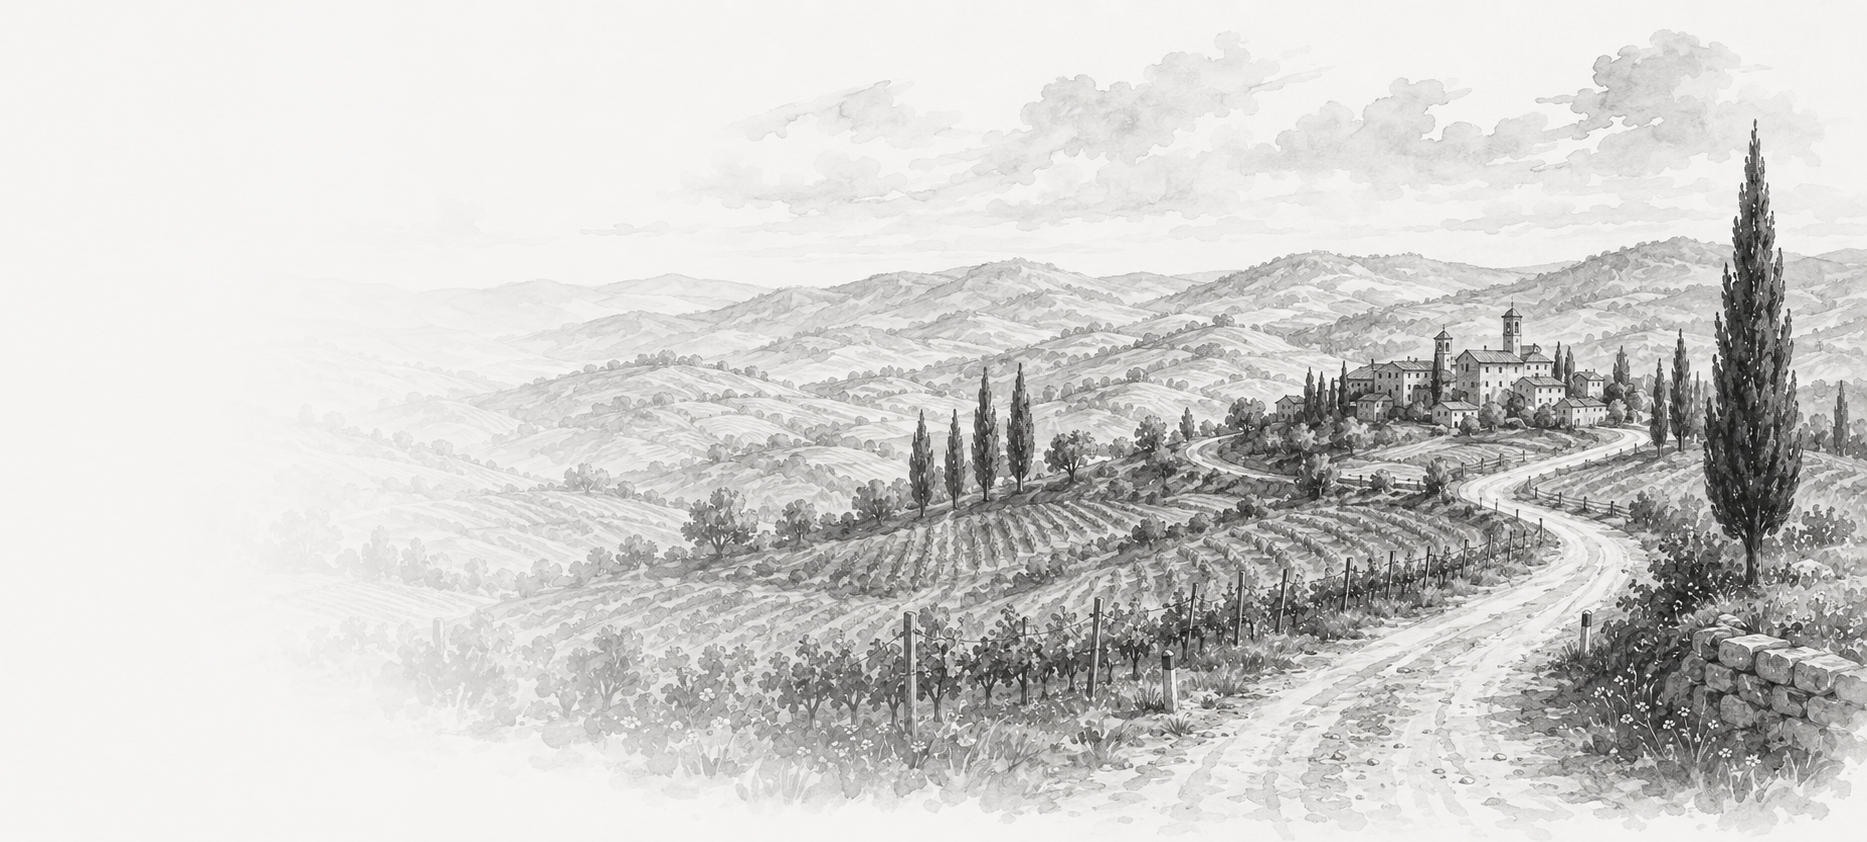
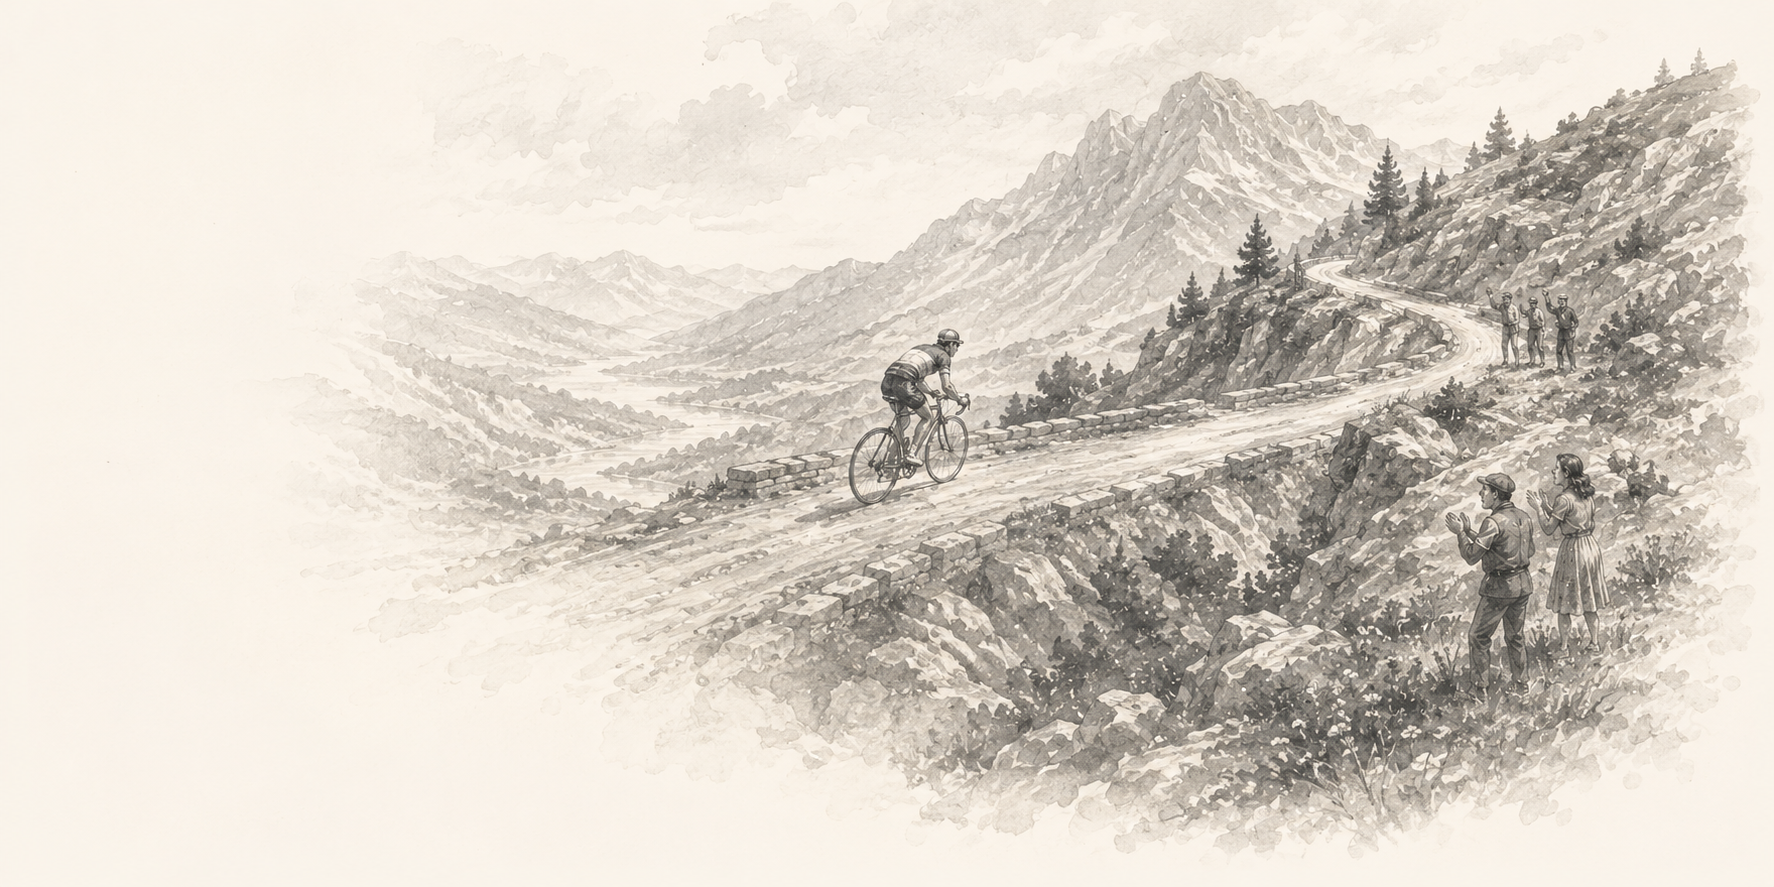
Add dynamic fatigue rider portraits

diff --git a/src/App.jsx b/src/App.jsx
@@ -525,6 +525,13 @@ async function updateResult(playerId, rider, field, value) {
   return fatigueCards?.[playerId]?.[rider] ?? 0;
 }
 
+function getFatigueImage(cards) {
+  if (cards >= 5) return "/fatigue-4.png";
+  if (cards >= 4) return "/fatigue-3.png";
+  if (cards >= 2) return "/fatigue-2.png";
+  return "/fatigue-1.png";
+}
+
 async function updateFatigue(playerId, rider, value) {
   if (!isAdmin) return;
 
@@ -1129,10 +1136,12 @@ onChange={async (e) => {
 {openFatigue === `${p.id}-sprinter` && (
   <div className="fatigue-popover">
     <img
-    src="/fatigue-rider.png"
-    alt="Træt rytter"
-    className="fatigue-image"
-  />
+  src={getFatigueImage(
+    getFatigueValue(p.id, "sprinter")
+  )}
+  alt="Træt rytter"
+  className="fatigue-image"
+/>
     <label>
       Antal træthedskort
       <input
@@ -1278,11 +1287,13 @@ onChange={async (e) => {
 
 {openFatigue === `${p.id}-rouleur` && (
   <div className="fatigue-popover">
-    <img
-    src="/fatigue-rider.png"
-    alt="Træt rytter"
-    className="fatigue-image"
-  />
+   <img
+  src={getFatigueImage(
+    getFatigueValue(p.id, "rouleur")
+  )}
+  alt="Træt rytter"
+  className="fatigue-image"
+/>
     <label>
       Antal træthedskort
       <input

diff --git a/src/App.css b/src/App.css
@@ -271,7 +271,7 @@ body {
   background: #f9edce;
   color: var(--ink);
 }
-
+  
 h1, h2, h3, h4 {
   color: var(--ink);
   letter-spacing: 0.5px;
@@ -1047,6 +1047,7 @@ input, select {
 
 .fatigue-popover input {
   width: 100%;
+  box-sizing: border-box;
 }
 
 .fatigue-image {